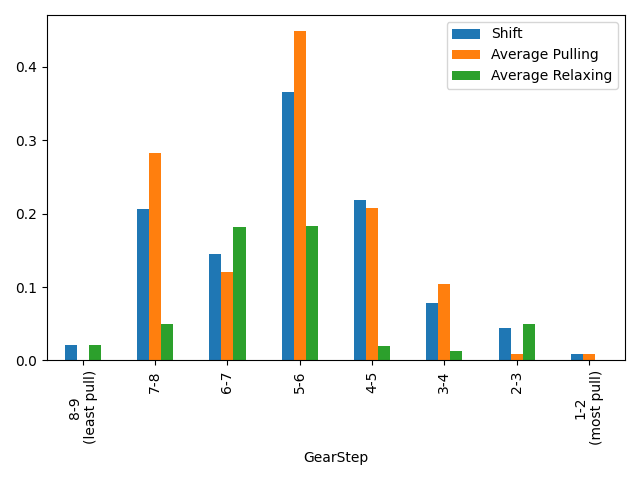
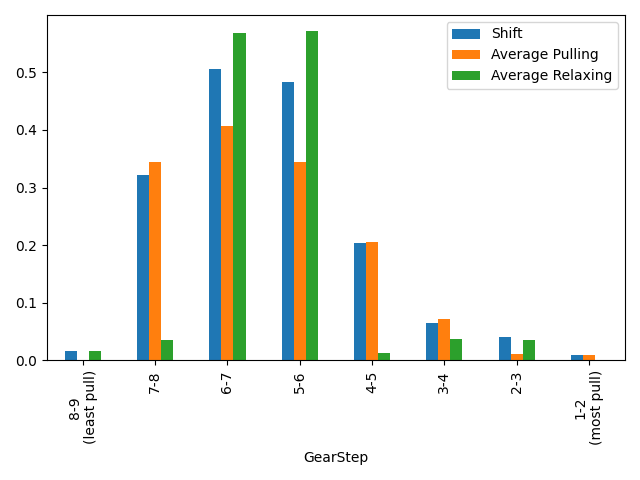
More measurements

diff --git a/shifters/Campagnolo Daytona 9-Speed Right/default.htm b/shifters/Campagnolo Daytona 9-Speed Right/default.htm
@@ -21,7 +21,7 @@ Campagnolo Daytona 9-Speed
   </tr>
   <tr>
     <th>Cable Pull</th>
-    <td>2.92</td>
+    <td>2.93</td>
   </tr>
   <tr>
     <th>Raw Measurement Data</th>
@@ -57,7 +57,7 @@ Campagnolo Daytona 9-Speed
         
       </td>
       <td>
-        3.27 mm
+        3.28 mm
       </td>
     </tr>
     
@@ -68,7 +68,7 @@ Campagnolo Daytona 9-Speed
         
       </td>
       <td>
-        3.00 mm
+        3.04 mm
       </td>
     </tr>
     
@@ -79,7 +79,7 @@ Campagnolo Daytona 9-Speed
         
       </td>
       <td>
-        2.85 mm
+        2.87 mm
       </td>
     </tr>
     
@@ -90,7 +90,7 @@ Campagnolo Daytona 9-Speed
         
       </td>
       <td>
-        2.76 mm
+        2.62 mm
       </td>
     </tr>
     
@@ -101,7 +101,7 @@ Campagnolo Daytona 9-Speed
         
       </td>
       <td>
-        2.74 mm
+        2.77 mm
       </td>
     </tr>
     
@@ -112,7 +112,7 @@ Campagnolo Daytona 9-Speed
         
       </td>
       <td>
-        2.88 mm
+        3.00 mm
       </td>
     </tr>
     
@@ -125,7 +125,7 @@ Campagnolo Daytona 9-Speed
         
       </td>
       <td>
-        2.70 mm
+        2.71 mm
       </td>
     </tr>
     
